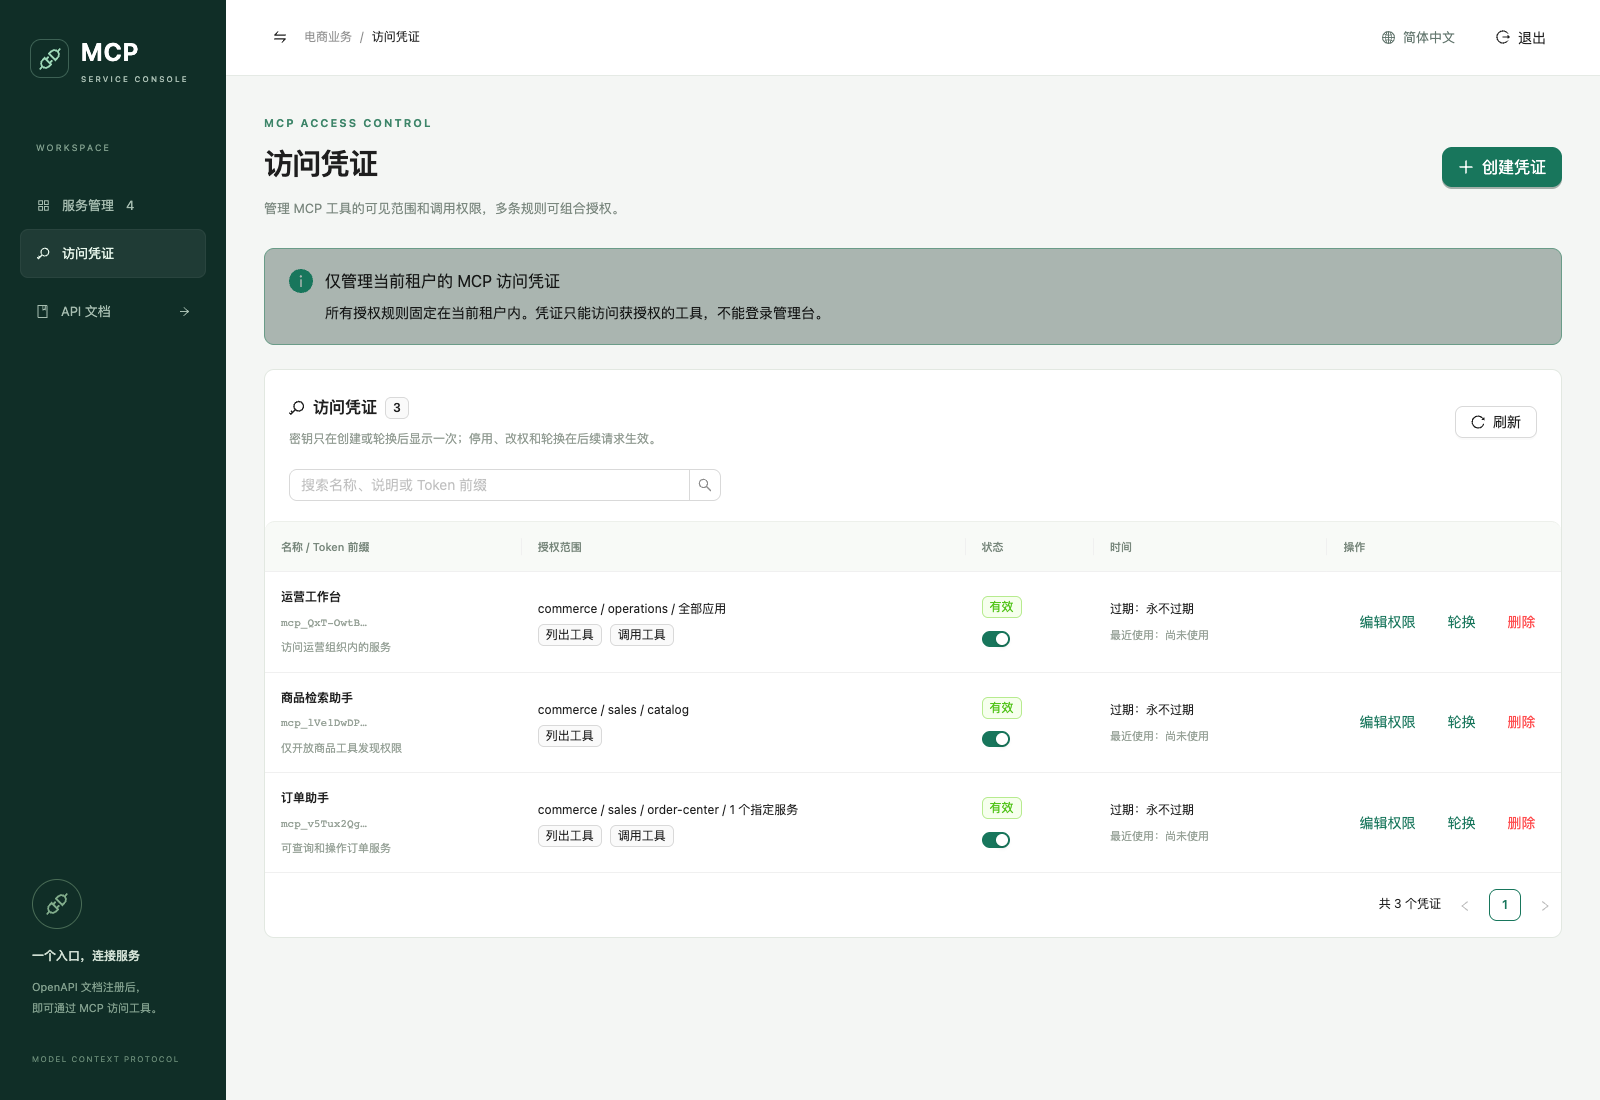
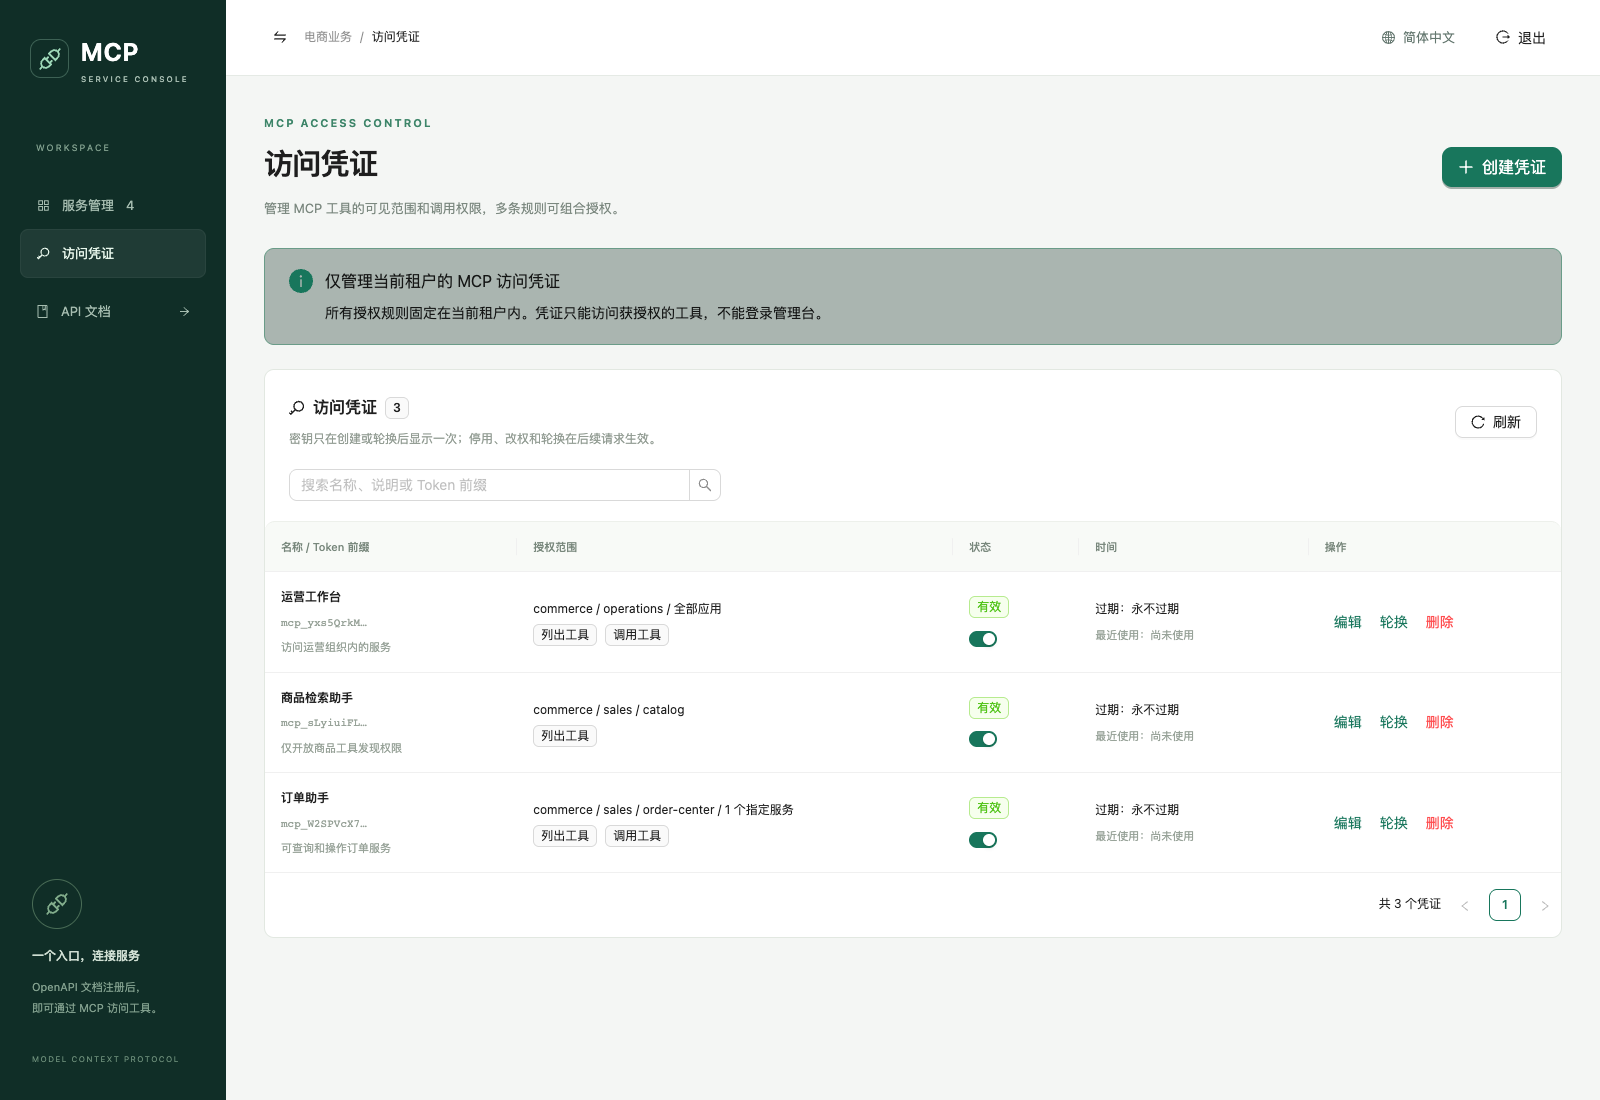
style: update action buttons and add English documentation images
add English versions of service, tenant, and credential images
adjust table actions styling to prevent overflow
rename edit permission button to edit in UI and tests
update README to reference English screenshots

diff --git a/web/e2e/layout.spec.ts b/web/e2e/layout.spec.ts
@@ -1,0 +1,69 @@
+import { test, expect, type Page } from '@playwright/test';
+
+async function expectPageFits(page: Page) {
+  expect(await page.evaluate(() => document.documentElement.scrollWidth)).toBeLessThanOrEqual(page.viewportSize()!.width);
+}
+
+async function expectActionsFit(page: Page) {
+  const overflow = await page.locator('.ant-table-tbody .ant-table-row td:last-child').evaluateAll(cells => cells.flatMap(cell => {
+    const bounds = cell.getBoundingClientRect();
+    const style = getComputedStyle(cell);
+    const left = bounds.left + parseFloat(style.paddingLeft);
+    const right = bounds.right - parseFloat(style.paddingRight);
+    return [...cell.querySelectorAll('button')].flatMap(button => {
+      const rect = button.getBoundingClientRect();
+      return rect.left < left - 1 || rect.right > right + 1
+        ? [{ label: button.textContent, cellWidth: bounds.width, left: rect.left - bounds.left, right: rect.right - bounds.right }] : [];
+    });
+  }));
+  expect(overflow, 'Action buttons must stay within their table cell').toEqual([]);
+}
+
+for (const locale of ['en-US', 'zh-CN']) {
+  for (const width of [390, 768, 1024, 1440]) {
+    test(`${locale} console controls fit at ${width}px`, async ({ browser, request }) => {
+      const tenant = `layout-${locale.toLowerCase()}-${width}`;
+      const headers = { Authorization: 'Bearer admin-e2e-token' };
+      const created = await request.post('/tenants/', { headers, data: { id: tenant, name: 'Layout workspace' } });
+      expect(created.ok()).toBeTruthy();
+      const service = await request.post(`/services/register?tenant=${tenant}`, { headers, data: {
+        org: 'engineering', app: 'orders', fileId: 'orders', fileName: 'orders.yaml',
+        yaml_content: JSON.stringify({ openapi: '3.0.3', info: { title: 'Order API', version: '1.0' },
+          paths: { '/orders': { get: { operationId: 'listOrders', responses: { '200': { description: 'OK' } } } } } }),
+      } });
+      expect(service.ok()).toBeTruthy();
+      const credential = await request.post(`/credentials/?tenant=${tenant}`, { headers, data: {
+        name: 'Order assistant', description: 'Order service integration', rules: [{ tenant, operations: ['list', 'call'] }],
+      } });
+      expect(credential.ok()).toBeTruthy();
+      const context = await browser.newContext({ locale, viewport: { width, height: 1000 } });
+      const page = await context.newPage();
+      const en = locale === 'en-US';
+      try {
+        await page.goto('/admin/');
+        await expectPageFits(page);
+        await page.getByLabel(en ? 'Access token' : '访问 Token', { exact: true }).fill('admin-e2e-token');
+        await page.getByRole('button', { name: en ? 'Sign in to the console' : '进入管理台' }).click();
+        await expect(page.getByRole('heading', { name: en ? 'Choose a tenant' : '选择租户', exact: true })).toBeVisible();
+        await expectPageFits(page);
+        await page.getByRole('button', { name: `${en ? 'Enter tenant' : '进入租户'} ${tenant}`, exact: true }).click();
+        await expect(page.getByRole('button', { name: 'Order API', exact: true })).toBeVisible();
+        await expectPageFits(page);
+        await expectActionsFit(page);
+        await page.getByRole('button', { name: 'Order API', exact: true }).click();
+        await expect(page.getByText('listOrders', { exact: true })).toBeVisible();
+        await expectPageFits(page);
+        await page.getByRole('button', { name: en ? 'Close' : '关闭', exact: true }).click();
+        await page.getByRole('button', { name: en ? 'Access credentials' : '访问凭证', exact: true }).first().click();
+        await expect(page.getByText('Order assistant', { exact: true })).toBeVisible();
+        await expectPageFits(page);
+        await expectActionsFit(page);
+        await page.getByRole('button', { name: en ? 'Edit' : '编辑', exact: true }).click();
+        await expect(page.getByLabel(en ? 'Credential name' : '凭证名称', { exact: true })).toHaveValue('Order assistant');
+        await expectPageFits(page);
+      } finally {
+        await context.close();
+      }
+    });
+  }
+}

diff --git a/web/src/CredentialManager.tsx b/web/src/CredentialManager.tsx
@@ -131,13 +131,13 @@ export default function CredentialManager({ api, tenant }: { api: Api; tenant: s
     <section className="services-panel"><div className="panel-heading"><div><h2><KeyOutlined /> {t("访问凭证")}<Tag>{items.length}</Tag></h2><p>{t("密钥只在创建或轮换后显示一次；停用、改权和轮换在后续请求生效。")}</p></div><Button icon={<ReloadOutlined />} loading={loading} onClick={reload}>{t("刷新")}</Button></div>
       <div className="credential-search"><Input.Search allowClear placeholder={t("搜索名称、说明或 Token 前缀")} aria-label={t("搜索凭证")} value={query} onChange={e => setQuery(e.target.value)} /></div>
       {error && <Alert type="error" showIcon message={t("访问凭证加载失败")} description={apiMessage(error)} />}
-      <Table<Credential> rowKey="id" loading={loading} scroll={{ x: 1100 }} dataSource={items.filter(row => `${row.name} ${row.description} ${row.token_prefix}`.toLowerCase().includes(query.toLowerCase()))}
+      <Table<Credential> rowKey="id" loading={loading} scroll={{ x: 1130 }} dataSource={items.filter(row => `${row.name} ${row.description} ${row.token_prefix}`.toLowerCase().includes(query.toLowerCase()))}
         pagination={{ pageSize: 10, showTotal: total => t("共 {0} 个凭证", [total]) }} locale={{ emptyText: <Empty description={t("还没有访问凭证")} /> }} columns={[
           { title: t("名称 / Token 前缀"), width: 220, render: (_, row) => <div className="scope-cell"><strong>{row.name}</strong><small className="mono">{row.token_prefix}…</small><small>{row.description}</small></div> },
           { title: t("授权范围"), width: 380, render: (_, row) => <Space direction="vertical" size={8}>{row.rules.map((rule, index) => <div key={index} className="credential-summary"><span>{scopeLabel(rule)}</span><div>{rule.operations.map(operation => <Tag key={operation}>{operation === 'list' ? t("列出工具") : t("调用工具")}</Tag>)}</div></div>)}</Space> },
           { title: t("状态"), width: 110, render: (_, row) => <Space direction="vertical"><Tag color={row.status === 'active' ? 'success' : 'default'}>{({ active: t("有效"), disabled: t("已停用"), expired: t("已过期") })[row.status]}</Tag><Switch size="small" checked={row.enabled} disabled={busy} aria-label={t("启用 {0}", [row.name])} onChange={() => toggle(row)} /></Space> },
           { title: t("时间"), width: 200, render: (_, row) => <div className="scope-cell"><span>{t("过期：")}{row.expires_at ? time(row.expires_at) : t("永不过期")}</span><small>{t("最近使用：")}{row.last_used_at ? time(row.last_used_at) : t("尚未使用")}</small></div> },
-          { title: t("操作"), width: 200, fixed: 'right', render: (_, row) => <Space size={0}><Button type="link" onClick={() => edit(row)}>{t("编辑权限")}</Button><Button type="link" onClick={() => rotate(row)}>{t("轮换")}</Button><Button type="link" danger onClick={() => remove(row)}>{t("删除")}</Button></Space> },
+          { title: t("操作"), width: 220, fixed: 'right', render: (_, row) => <Space className="table-actions" wrap size={0}><Button type="link" onClick={() => edit(row)}>{t("编辑")}</Button><Button type="link" onClick={() => rotate(row)}>{t("轮换")}</Button><Button type="link" danger onClick={() => remove(row)}>{t("删除")}</Button></Space> },
         ]} />
     </section>
     <Drawer open={!!editor} width={900} title={editor?.row ? t("编辑访问凭证") : t("创建访问凭证")} onClose={() => { if (!busy) setEditor(null); }} maskClosable={!busy} keyboard={!busy} destroyOnClose

diff --git a/web/src/App.tsx b/web/src/App.tsx
@@ -132,7 +132,7 @@ function Workspace({ session, api, onLogout, onLeave }: { session: Session; api:
           { title: t("版本"), dataIndex: 'version', width: 100, render: value => <Tag bordered={false}>{value || '—'}</Tag> },
           { title: t("工具"), key: 'tools', width: 140, render: (_, row) => <div className="scope-cell"><span>{t("{0} 个工具", [row.tool_count])}</span><small><Badge status={row.error || row.active_tool_count < row.tool_count ? 'warning' : 'success'} /> {row.error ? t("需修复") : t("{0} 个已生效", [row.active_tool_count])}</small></div> },
           { title: t("更新时间"), dataIndex: 'updated_at', width: 180, render: value => <span className="muted table-time">{time(value)}</span> },
-          ...(canManage ? [{ title: t("操作"), key: 'actions', width: 150, fixed: 'right' as const, render: (_: unknown, row: Service) => <Space size={0}><Button type="link" onClick={() => setEditor({ row })}>{t("编辑")}</Button><Button type="link" danger onClick={() => remove(row)}>{t("删除")}</Button></Space> }] : []),
+          ...(canManage ? [{ title: t("操作"), key: 'actions', width: 150, fixed: 'right' as const, render: (_: unknown, row: Service) => <Space className="table-actions" wrap size={0}><Button type="link" onClick={() => setEditor({ row })}>{t("编辑")}</Button><Button type="link" danger onClick={() => remove(row)}>{t("删除")}</Button></Space> }] : []),
         ]} />
     </section><footer className="workspace-footer"><span><SafetyCertificateOutlined /> {t("当前访问范围：")}{session.tenant}</span><span>MCP Service Console</span></footer>
   </>}</main></div>

diff --git a/web/e2e/admin.spec.ts b/web/e2e/admin.spec.ts
@@ -95,7 +95,7 @@ test('database credentials can restrict services, edit rules, disable and rotate
   expect((await request.get('/services/access?tenant=scope-test', { headers: { Authorization: `Bearer ${secret}` } })).status()).toBe(403);
   await page.getByRole('button', { name: '我已保存' }).click();
   await expect(page.getByText(secret, { exact: true })).toHaveCount(0);
-  await page.getByRole('button', { name: '编辑权限' }).click();
+  await page.getByRole('button', { name: '编辑' }).click();
   await page.getByRole('button', { name: '添加授权规则' }).click();
   await expect(page.getByText('授权规则 2', { exact: true })).toBeVisible();
   await page.getByRole('button', { name: '保存凭证', exact: true }).click();

diff --git a/web/src/styles.css b/web/src/styles.css
@@ -96,6 +96,8 @@ a { color: inherit; }
 .filter-form .ant-form-item:first-child { flex: 2; min-width: 220px; }
 .services-panel .ant-table-thead > tr > th { font-size: 11px; font-weight: 500; color: #78877c; background: #f8faf7; border-top: 1px solid #edf0eb; }
 .services-panel .ant-table-cell { padding: 18px 20px; }
+.table-actions { max-width: 100%; }
+.table-actions .ant-btn { padding-inline: 8px; }
 .services-panel .ant-table-pagination { margin: 20px 24px; font-size: 12px; }
 .service-cell { display: flex; align-items: center; gap: 12px; min-width: 0; }
 .service-cell > div { min-width: 0; }

diff --git a/web/src/messages.ts b/web/src/messages.ts
@@ -154,7 +154,6 @@ export const english = {
   "永不过期": "Never expires",
   "最近使用：": "Last used: ",
   "尚未使用": "Never used",
-  "编辑权限": "Edit permissions",
   "轮换": "Rotate",
   "编辑访问凭证": "Edit access credential",
   "创建访问凭证": "Create access credential",

diff --git a/README.md b/README.md
@@ -24,31 +24,31 @@ Existing REST APIs → OpenAPI documents → SimpleMCP → MCP clients / AI assi
 
 ## See it in action
 
-Actual console screenshots with demonstration data. The sample APIs use `api.example.com`; no production services or real credentials are shown. The console language can be switched between English and Chinese.
+Actual console screenshots with demonstration data. The sample APIs use `api.example.com`; no production services or real credentials are shown. These screenshots show the English interface; the [Chinese README](README.zh-CN.md) shows the Chinese interface.
 
 ### Service management
 
 Search and filter APIs by organization/application, see registered tool counts, and manage document versions in one workspace.
 
-![SimpleMCP service management console](docs/images/service-management.png)
+![SimpleMCP service management console](docs/images/service-management-en.png)
 
 ### Tools at a glance
 
 Inspect the tools declared by an OpenAPI document, their active registration status, input/output schemas and client connection configuration. Registration status does not indicate upstream availability.
 
-![SimpleMCP service details and tool list](docs/images/service-tools.png)
+![SimpleMCP service details and tool list](docs/images/service-tools-en.png)
 
 ### Tenant workspaces
 
 Choose a workspace before managing its services and credentials. Create tenants and edit their names and descriptions from this page.
 
-![SimpleMCP tenant workspace selection](docs/images/tenant-workspaces.png)
+![SimpleMCP tenant workspace selection](docs/images/tenant-workspaces-en.png)
 
 ### Client access credentials
 
 Manage tokens and their authorization rules, with separate controls for tool listing and calling.
 
-![SimpleMCP client credential management](docs/images/access-credentials.png)
+![SimpleMCP client credential management](docs/images/access-credentials-en.png)
 
 ## Quick start
 
